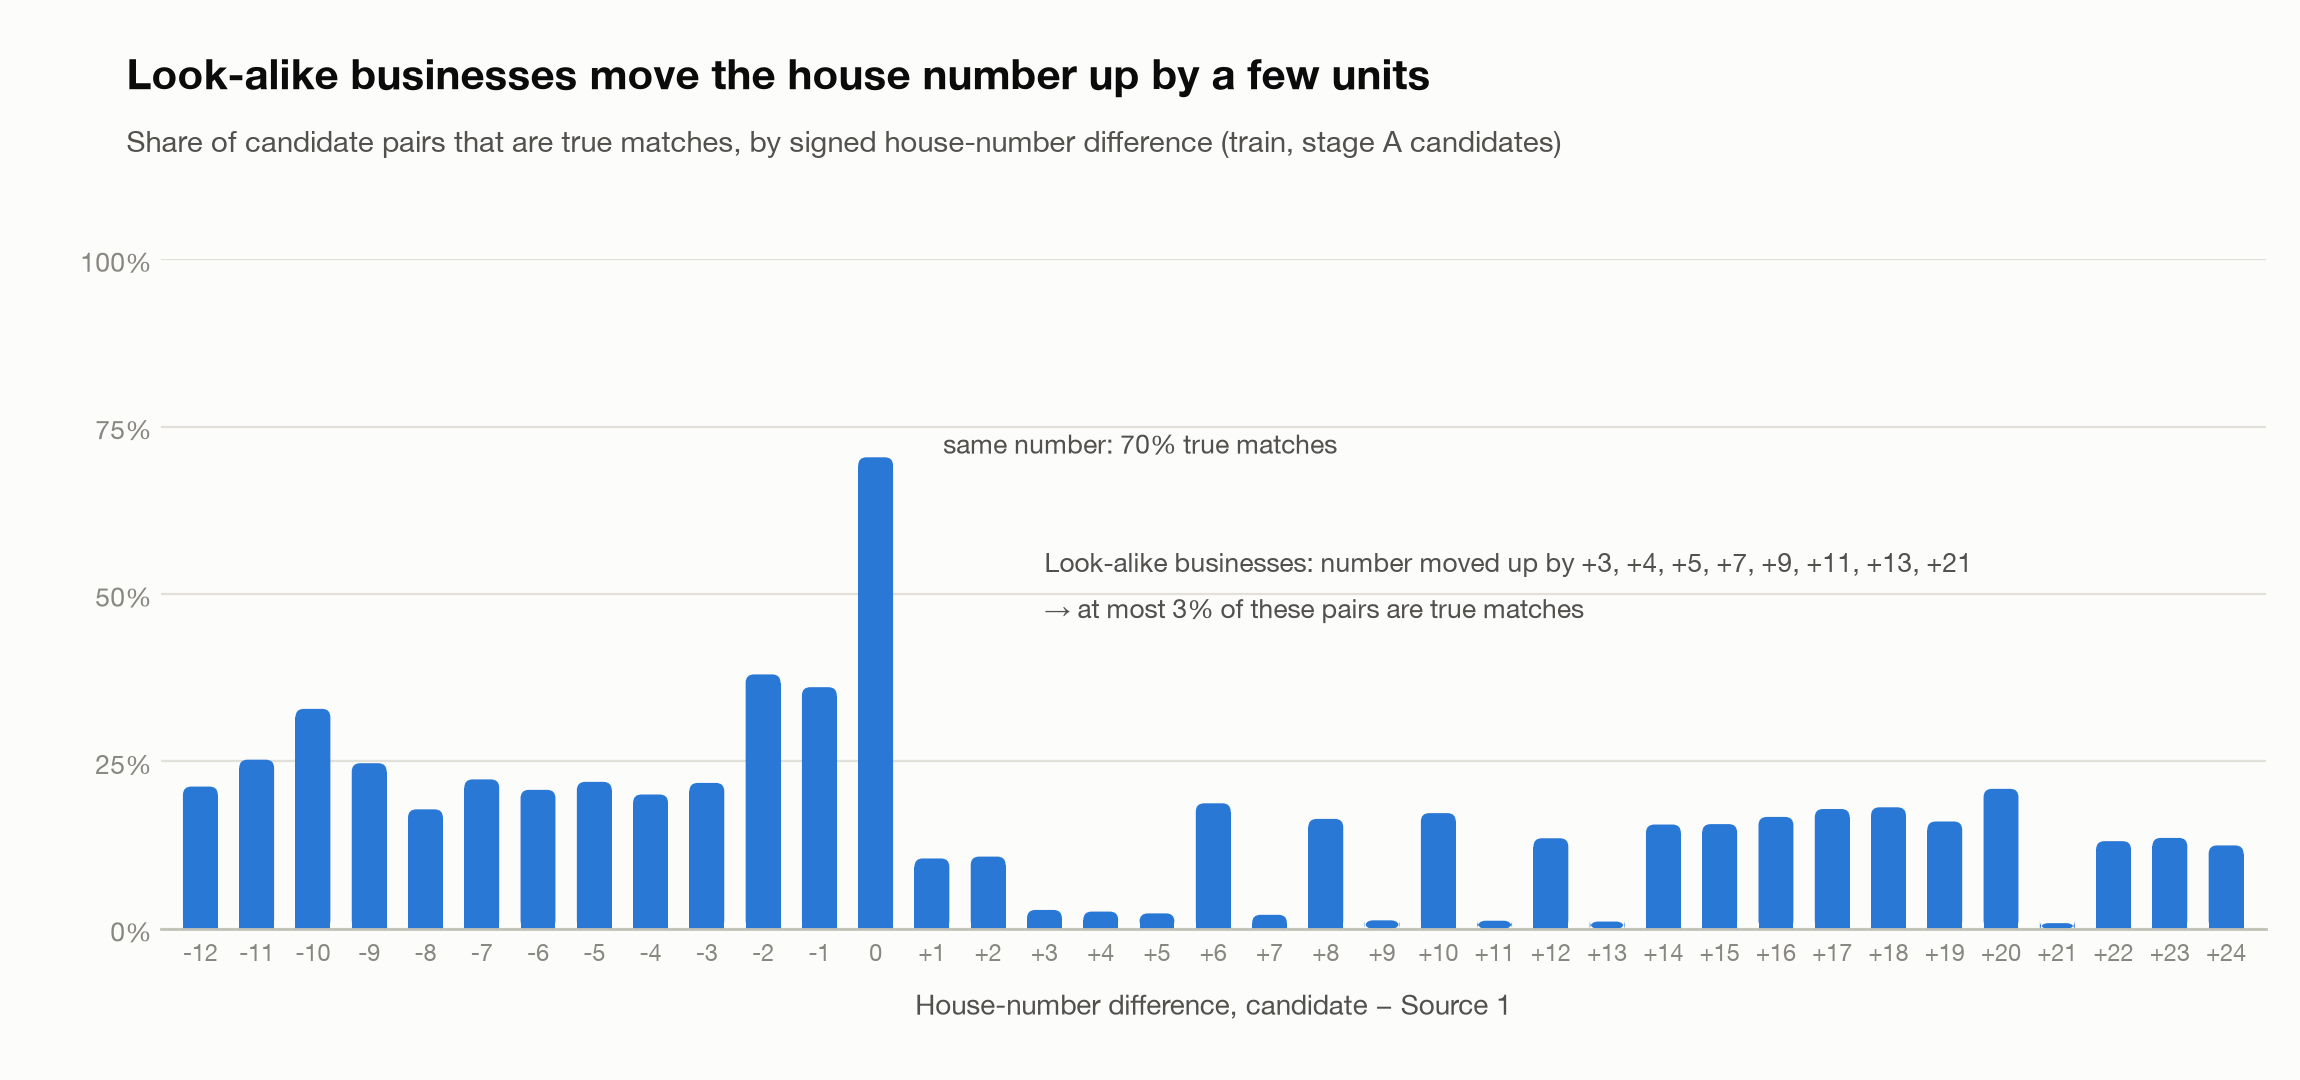
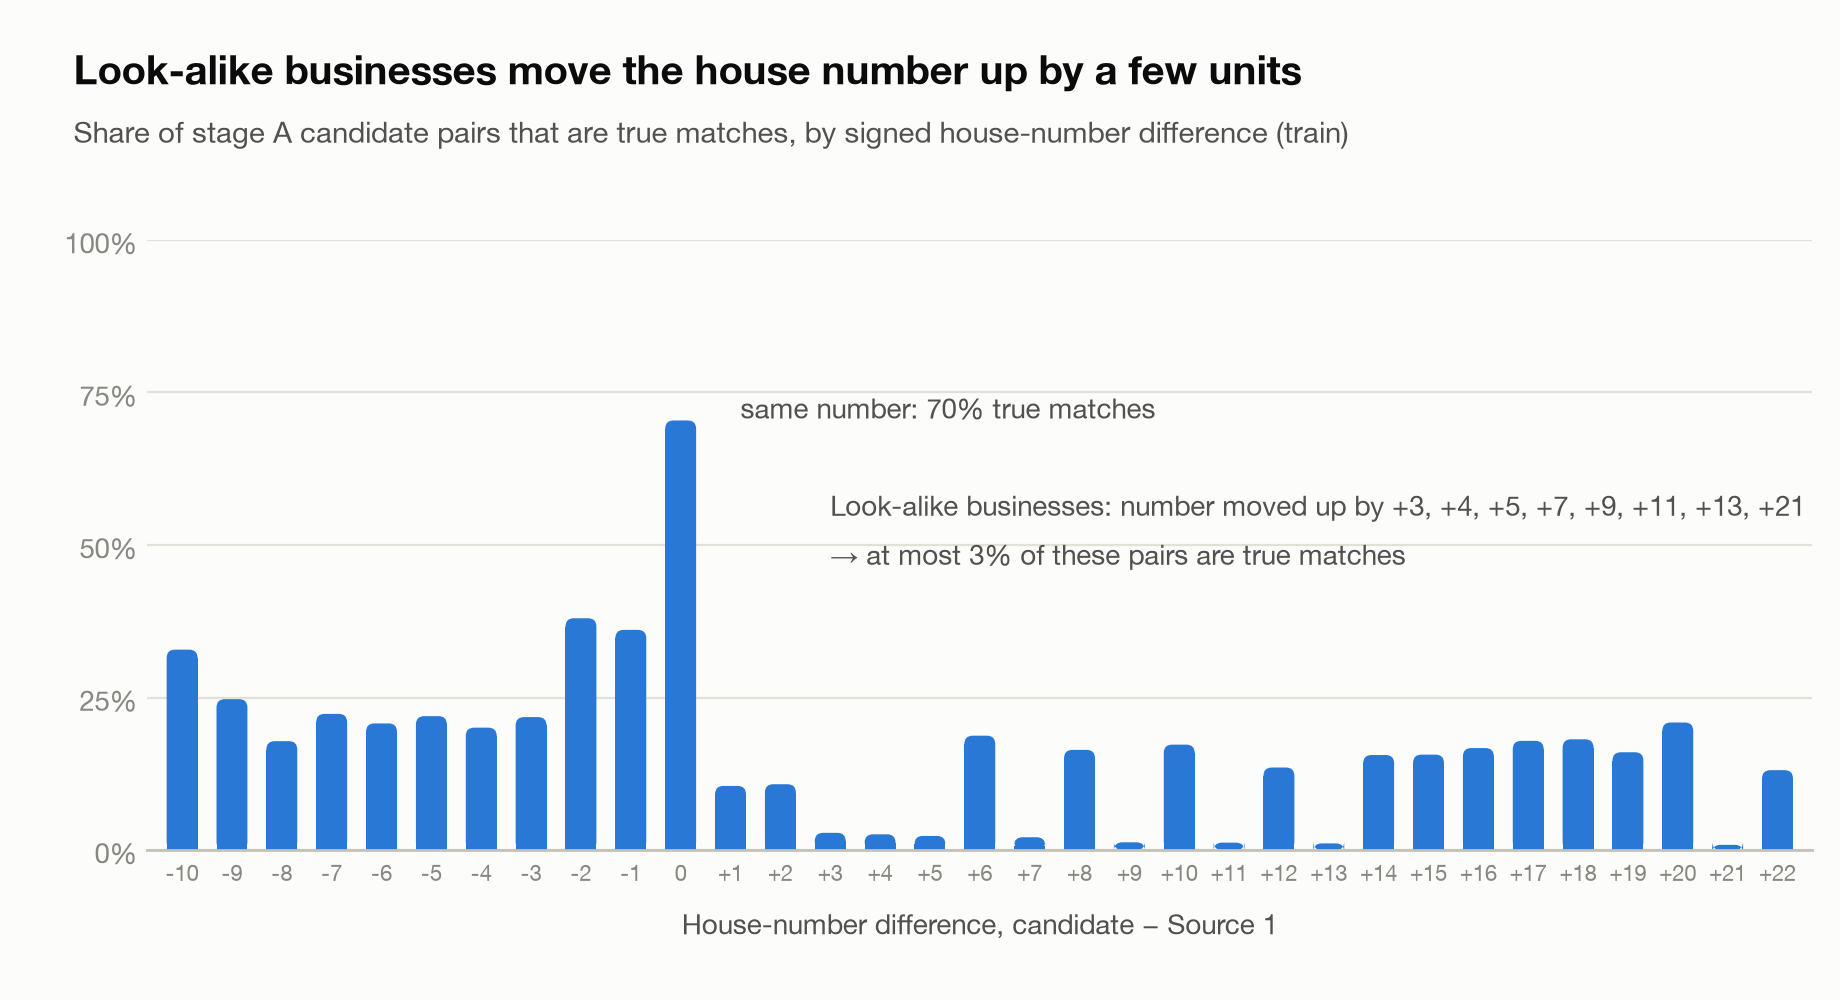
Polish README figures and pipeline diagram
Narrower figures so labels stay legible at README width, and a top-down
pipeline diagram that GitHub renders at full size.

diff --git a/code/business_entity_resolution/src/ber/figures.py b/code/business_entity_resolution/src/ber/figures.py
@@ -39,14 +39,14 @@ def _style(ax, t):
         ax.spines[side].set_visible(False)
     ax.spines["bottom"].set_color(t["base"])
     ax.spines["bottom"].set_linewidth(1)
-    ax.tick_params(colors=t["muted"], labelsize=9.5, length=0)
+    ax.tick_params(colors=t["muted"], labelsize=10, length=0)
     ax.grid(axis="y", color=t["grid"], linewidth=0.8, linestyle="-")
     ax.set_axisbelow(True)
 
 
 def _titles(fig, t, title, subtitle):
-    fig.text(0.055, 0.955, title, color=t["ink"], fontsize=15, fontweight="bold", va="top")
-    fig.text(0.055, 0.885, subtitle, color=t["ink2"], fontsize=10.5, va="top")
+    fig.text(0.04, 0.955, title, color=t["ink"], fontsize=14.5, fontweight="bold", va="top")
+    fig.text(0.04, 0.885, subtitle, color=t["ink2"], fontsize=10.5, va="top")
 
 
 def _rounded_columns(ax, xs, hs, width, color, fig):
@@ -70,7 +70,7 @@ def _rounded_columns(ax, xs, hs, width, color, fig):
 
 # ------------------------------------------------------------------ data
 
-def shift_data(lo: int = -12, hi: int = 24) -> pl.DataFrame:
+def shift_data(lo: int = -10, hi: int = 22) -> pl.DataFrame:
     R = F.load_records("train").select("a_hnum")
     C = pl.read_parquet(work("train_cands.parquet"), columns=["qr", "tr", "y"])
     h1 = R["a_hnum"][C["qr"].to_numpy()].cast(pl.Int64, strict=False)
@@ -108,29 +108,28 @@ def modifier_data(min_pairs: int = 300) -> pl.DataFrame:
 def plot_shift(d: pl.DataFrame, out: Path, theme: str):
     t = THEMES[theme]
     plt.rcParams["font.family"] = FONT
-    fig, ax = plt.subplots(figsize=(11.5, 5.4), dpi=200)
+    fig, ax = plt.subplots(figsize=(9.2, 5.0), dpi=200)
     fig.patch.set_facecolor(t["surface"])
-    fig.subplots_adjust(left=0.07, right=0.985, top=0.76, bottom=0.14)
+    fig.subplots_adjust(left=0.08, right=0.985, top=0.76, bottom=0.15)
     _style(ax, t)
     xs, hs = d["shift"].to_numpy(), d["pct_true"].to_numpy()
     ax.set_xlim(xs.min() - 0.7, xs.max() + 0.7)
     ax.set_ylim(0, 100)
     _rounded_columns(ax, xs, hs, 0.62, t["s1"], fig)
     ax.set_xticks(xs)
-    ax.set_xticklabels([f"{x:+d}" if x else "0" for x in xs], fontsize=8.5)
+    ax.set_xticklabels([f"{x:+d}" if x else "0" for x in xs], fontsize=8)
     ax.set_yticks([0, 25, 50, 75, 100])
     ax.set_yticklabels(["0%", "25%", "50%", "75%", "100%"])
     ax.set_xlabel("House-number difference, candidate − Source 1", color=t["ink2"], fontsize=10, labelpad=8)
     same = d.filter(pl.col("shift") == 0)["pct_true"][0]
     ax.annotate(f"same number: {same:.0f}% true matches", xy=(0, same), xytext=(1.2, same + 2),
-                color=t["ink2"], fontsize=9.5, va="center")
+                color=t["ink2"], fontsize=10, va="center")
     low = d.filter((pl.col("shift") > 0) & (pl.col("pct_true") < 5))["shift"].to_list()
     ax.text(3.0, 44, "Look-alike businesses: number moved up by "
             + ", ".join(f"{x:+d}" for x in low) + "\n→ at most 3% of these pairs are true matches",
-            color=t["ink2"], fontsize=9.5, va="bottom", linespacing=1.5)
+            color=t["ink2"], fontsize=10, va="bottom", linespacing=1.5)
     _titles(fig, t, "Look-alike businesses move the house number up by a few units",
-            "Share of candidate pairs that are true matches, by signed house-number difference "
-            "(train, stage A candidates)")
+            "Share of stage A candidate pairs that are true matches, by signed house-number difference (train)")
     fig.savefig(out, facecolor=t["surface"])
     plt.close(fig)
 
@@ -146,9 +145,9 @@ NOTES = (("US", "holdings", "+ holdings, + group, + southside … (US)", (3.0, 9
 def plot_modifiers(d: pl.DataFrame, out: Path, theme: str, notes=NOTES):
     t = THEMES[theme]
     plt.rcParams["font.family"] = FONT
-    fig, ax = plt.subplots(figsize=(11.5, 6.2), dpi=200)
+    fig, ax = plt.subplots(figsize=(9.2, 5.8), dpi=200)
     fig.patch.set_facecolor(t["surface"])
-    fig.subplots_adjust(left=0.07, right=0.985, top=0.8, bottom=0.12)
+    fig.subplots_adjust(left=0.085, right=0.985, top=0.8, bottom=0.12)
     _style(ax, t)
     ax.grid(axis="x", color=t["grid"], linewidth=0.8, linestyle="-")
     colors = {"US": t["s1"], "India": t["s2"]}
@@ -161,7 +160,7 @@ def plot_modifiers(d: pl.DataFrame, out: Path, theme: str, notes=NOTES):
         if r.height == 0:
             continue
         x, y = r["pct_same_number"][0], r["pct_true"][0]
-        ax.annotate(text, xy=(x, y), xytext=pos, color=t["ink"], fontsize=9.5, va="center",
+        ax.annotate(text, xy=(x, y), xytext=pos, color=t["ink"], fontsize=10, va="center",
                     arrowprops=dict(arrowstyle="-", color=t["muted"], lw=0.8, shrinkA=2, shrinkB=4),
                     zorder=4)
     corr = np.corrcoef(d["pct_same_number"].to_numpy(), d["pct_true"].to_numpy())[0, 1]
@@ -178,8 +177,7 @@ def plot_modifiers(d: pl.DataFrame, out: Path, theme: str, notes=NOTES):
     for txt in leg.get_texts():
         txt.set_color(t["ink2"])
     _titles(fig, t, "Decoy words give themselves away: they almost never keep the address",
-            "Each dot is a word added to a Source 1 name (candidate = S1 name + word), "
-            "train pairs with both house numbers present")
+            "One dot per word added to a Source 1 name; train pairs with both house numbers present")
     fig.savefig(out, facecolor=t["surface"])
     plt.close(fig)
 

diff --git a/README.md b/README.md
@@ -86,12 +86,12 @@ validator.
 ## How it works
 
 ```mermaid
-flowchart LR
-    A["3 TSV sources<br/>12.5M train records<br/>11.7M test records"] --> B["Normalise<br/>names + addresses"]
-    B --> C["Blocking<br/>rare shared keys,<br/>sparse top-k<br/>~51 candidates / entity"]
-    C --> D["Stage A filter<br/>LightGBM, 29 cheap features<br/>~8 candidates / entity"]
-    D --> E["Stage B matcher<br/>LightGBM, 89 features"]
-    E --> F["Decision<br/>one entity per record,<br/>expected-F0.5 subset"]
+flowchart TD
+    A["3 TSV sources<br/>12.5M train · 11.7M test records"] --> B["Normalise names + addresses"]
+    B --> C["Blocking: rare shared keys, sparse top-k<br/>~51 candidates per entity"]
+    C --> D["Stage A filter: LightGBM on 29 cheap features<br/>~8 candidates per entity"]
+    D --> E["Stage B matcher: LightGBM on 89 features"]
+    E --> F["Decision: one entity per record,<br/>expected-F0.5 subset per entity"]
     D -.-> G[("candidate_pairs.tsv")]
     F --> H[("matching_results.tsv")]
 ```
